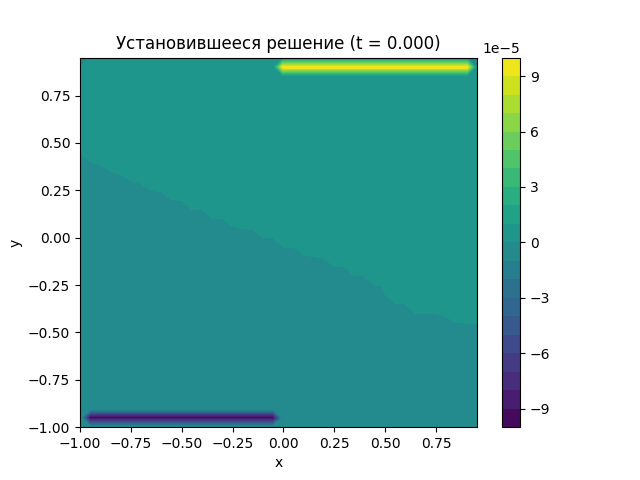
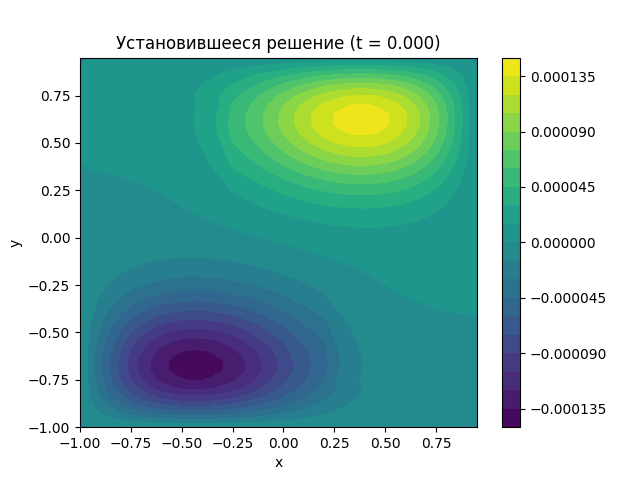
lab 2

diff --git a/6_semester/Lab_2/equation_thermal_conductivity.py b/6_semester/Lab_2/equation_thermal_conductivity.py
@@ -7,8 +7,8 @@ a_out = 500
 h = 1/20
 Nx = int(2/h)   # Количество точек по x
 Ny = int(2/h)   # Количество точек по y
-dt = 0.000000001  # Шаг по времени
-tolerance = 1e-5  # Точность для критерия остановки
+dt = 1.5625e-7  # Шаг по времени
+tolerance = 1e-4  # Точность для критерия остановки
 error = []
 
 # Создание сетки
@@ -105,22 +105,13 @@ plt.colorbar()
 plt.title(f"Установившееся решение (t = {t:.3f})")
 plt.xlabel("x")
 plt.ylabel("y")
-# plt.savefig("graph.png")
-
-# 2D график решения
-# plt.figure()
-# plt.contourf(X, Y, U, levels=20)
-# plt.colorbar()
-# plt.title(f"Установившееся решение (t = {t:.3f})")
-# plt.xlabel("x")
-# plt.ylabel("y")
 plt.savefig("2D graph.png")
 
 # График сходимости
 iters = list(range(0, len(error)))
 print(iters)
 plt.figure()
-plt.plot(error, iters)
+plt.plot(iters, error)
 plt.title("Сходимость решения")
 plt.xlabel("Итерация")
 plt.ylabel("Максимальная ошибка")
